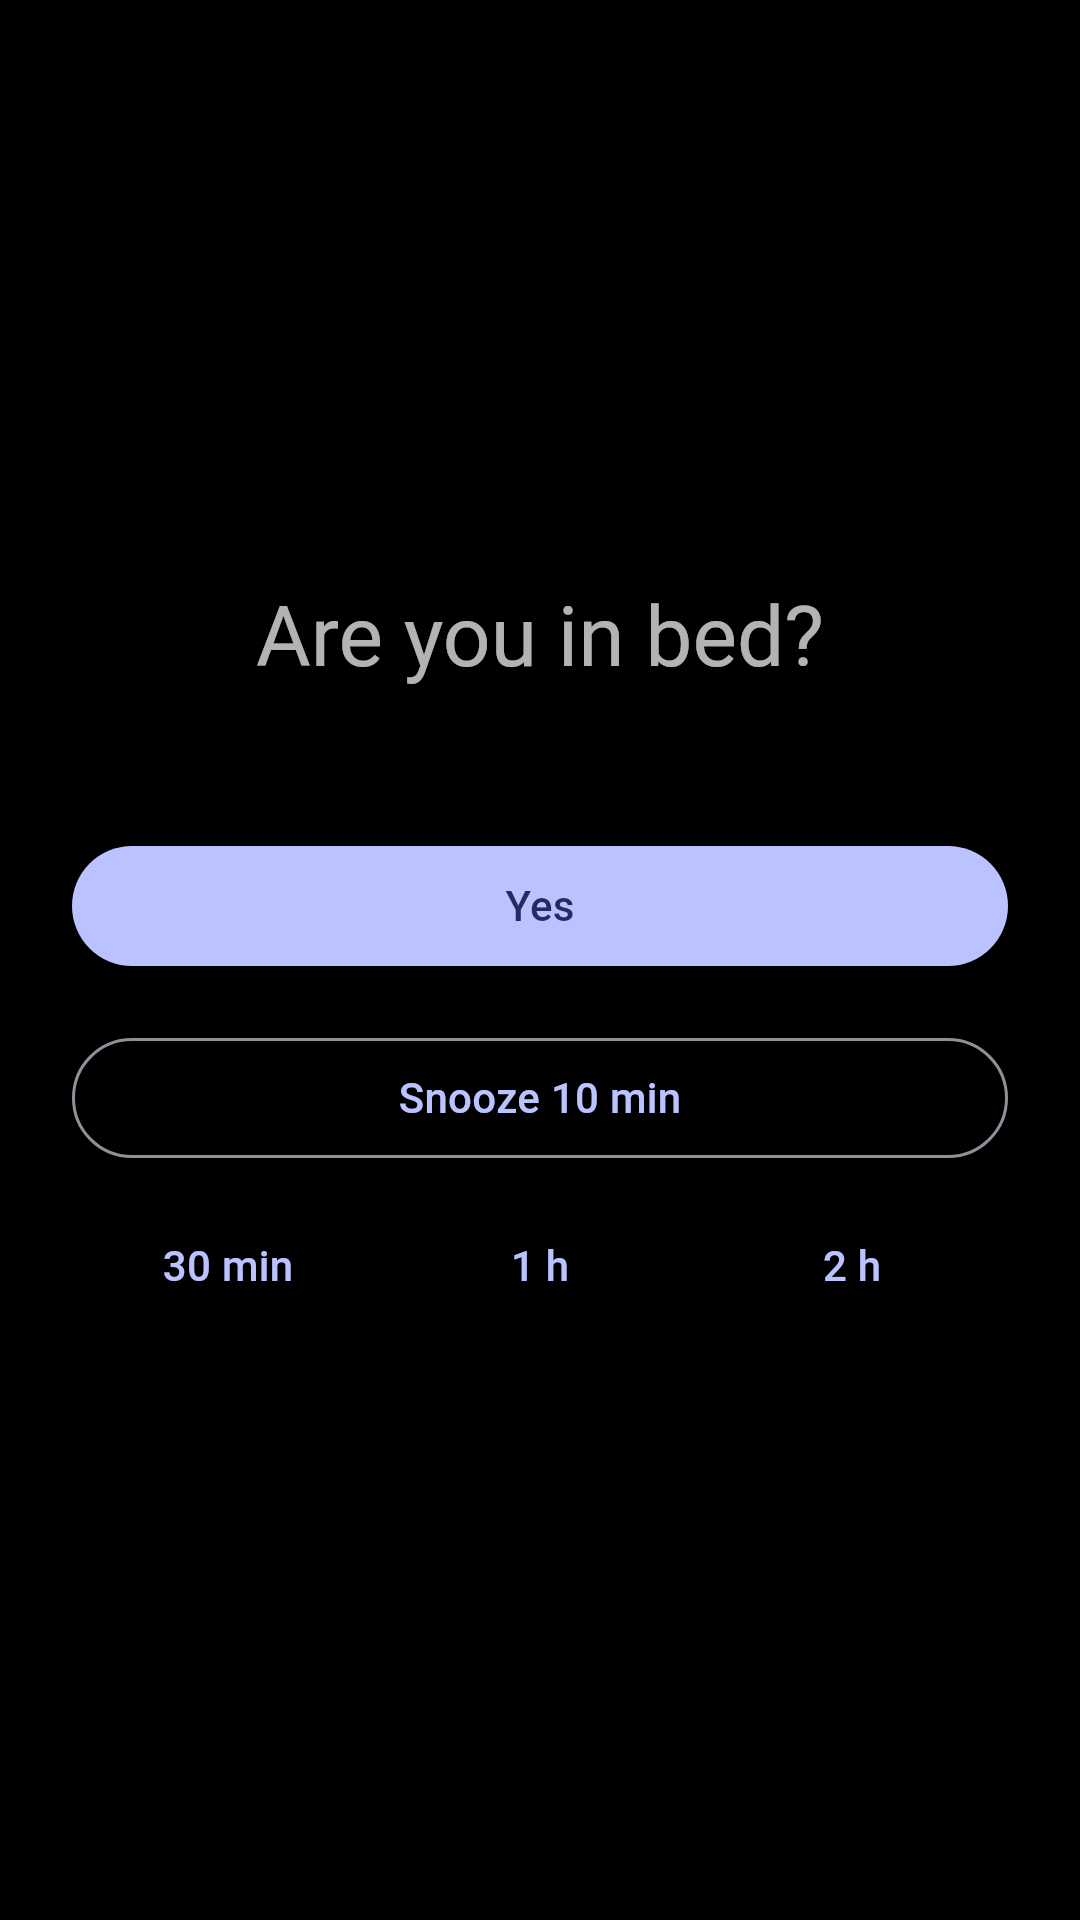
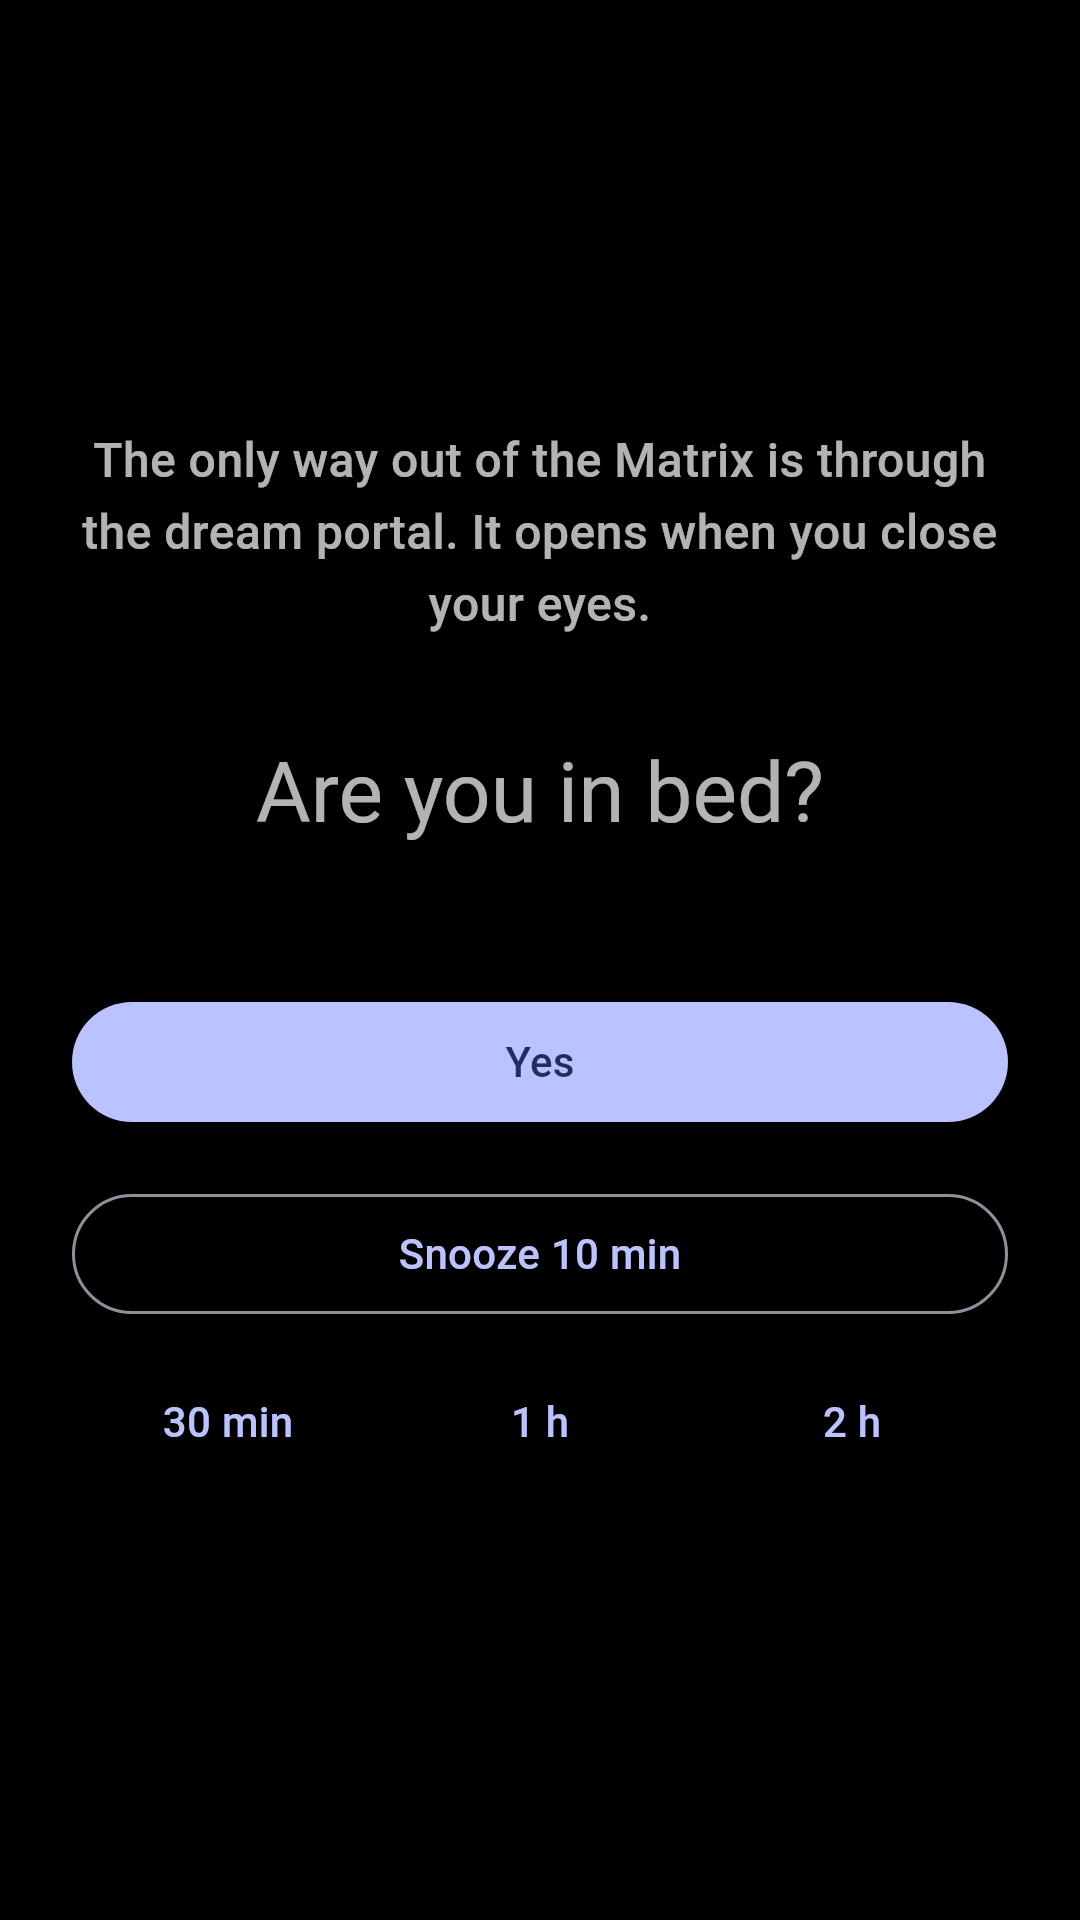
update screenshot

diff --git a/test/screenshots/screenshots_test.dart b/test/screenshots/screenshots_test.dart
@@ -26,6 +26,11 @@ import '../fake_platform.dart';
 
 const _out = 'fastlane/metadata/android/en-US/images/phoneScreenshots';
 
+/// The nag line on the nag screenshot.
+const _nagLine =
+    'The only way out of the Matrix is through the dream portal. '
+    'It opens when you close your eyes.';
+
 Future<void> _loadRealFonts() async {
   final root = Platform.environment['FLUTTER_ROOT']!;
   final fonts = '$root/bin/cache/artifacts/material_fonts';
@@ -142,6 +147,7 @@ void main() {
       store: store,
       platform: FakePlatform(),
       words: words,
+      nagLines: const [_nagLine],
       clock: () => now ?? _now,
       random: Random(3),
     );
@@ -193,6 +199,8 @@ void main() {
     await shoot(tester, HomeScreen(controller: c), '01-home');
 
     c = await demo(now: DateTime(2026, 10, 29, 22, 30));
+    c.engine.nagShown();
+    await c.reschedule();
     await shoot(tester, NagScreen(controller: c), '02-nag');
     await shoot(tester, const WordScreen(word: 'lantern'), '03-word');
 
